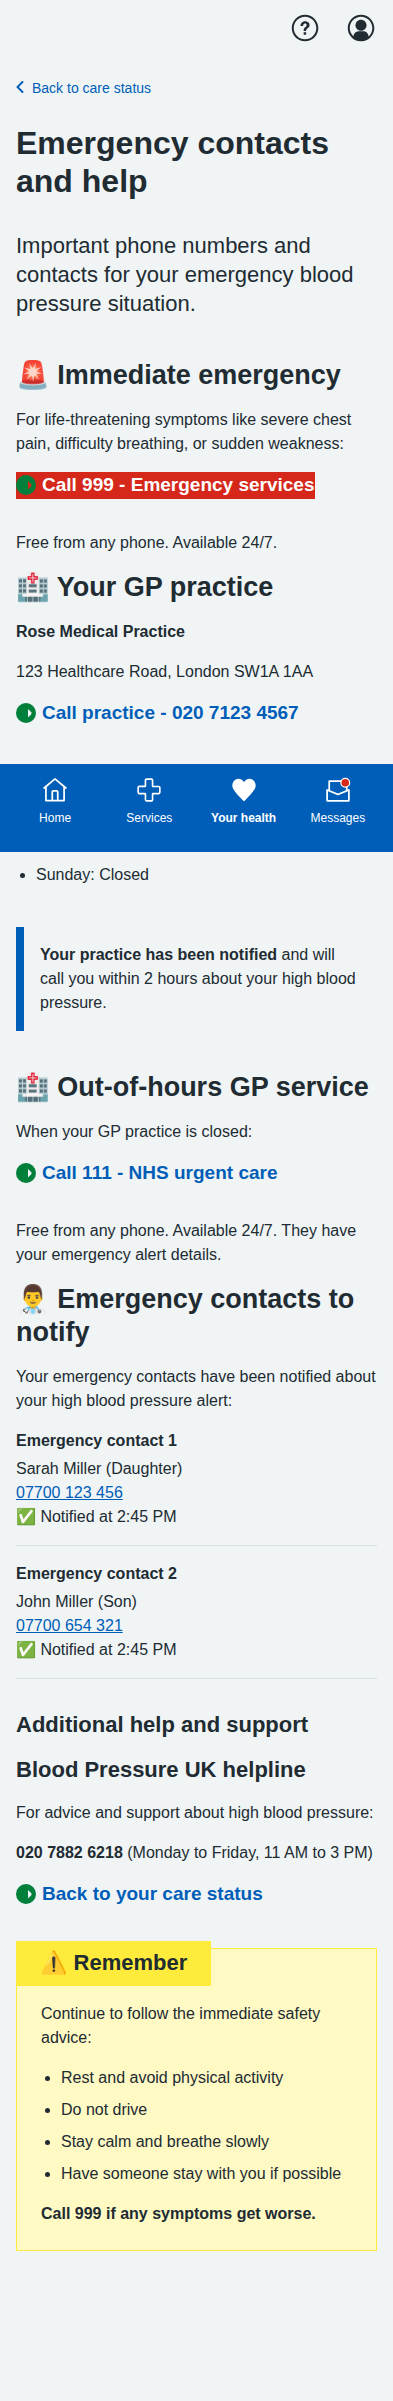
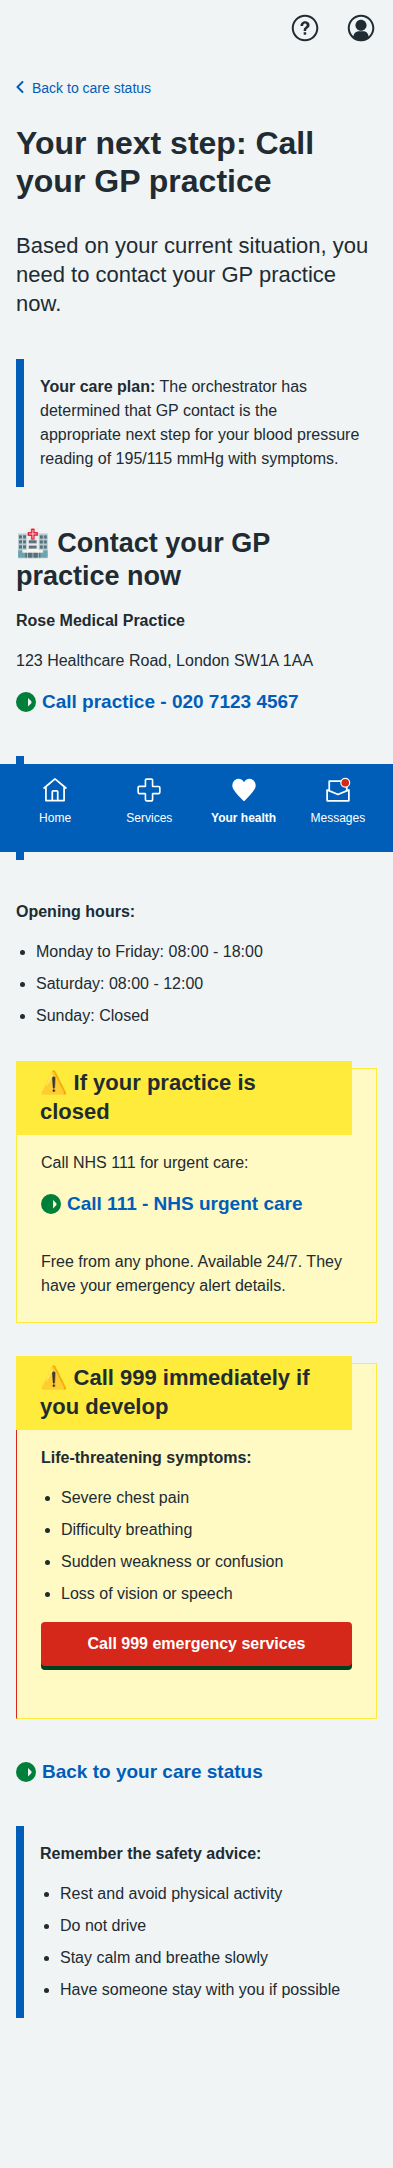
Fix emergency flow UI to align with multiagent orchestrator system and NHS standards

diff --git a/prototype/v1/app/views/pages/mybp/red-flag-emergency/emergency-contacts.html b/prototype/v1/app/views/pages/mybp/red-flag-emergency/emergency-contacts.html
@@ -15,38 +15,22 @@
     <div class="nhsuk-grid-column-two-thirds">
 
       <h1 class="nhsuk-heading-xl">
-        Emergency contacts and help
+        Your next step: Call your GP practice
       </h1>
 
       <p class="nhsuk-lede-text">
-        Important phone numbers and contacts for your emergency blood pressure situation.
+        Based on your current situation, you need to contact your GP practice now.
       </p>
 
-      <div class="nhsuk-summary-card">
-        <div class="nhsuk-summary-card__header">
-          <h2 class="nhsuk-summary-card__title">
-            🚨 Immediate emergency
-          </h2>
-        </div>
-        <div class="nhsuk-summary-card__body">
-          <p>For life-threatening symptoms like severe chest pain, difficulty breathing, or sudden weakness:</p>
-          <div class="nhsuk-action-link">
-            <a class="nhsuk-action-link__link" href="tel:999" style="background-color: #d5281b; color: white;">
-              <svg class="nhsuk-icon nhsuk-icon__arrow-right-circle" xmlns="http://www.w3.org/2000/svg" viewBox="0 0 24 24" aria-hidden="true" width="36" height="36">
-                <path d="m0 0h24v24h-24z" fill="none"/>
-                <path d="m12 2a10 10 0 1 0 10 10 10.011 10.011 0 0 0 -10-10zm5.293 11.293-3.293 3.293v-8.586l3.293 3.293a1 1 0 0 1 0 1.414z"/>
-              </svg>
-              <span class="nhsuk-action-link__text">Call 999 - Emergency services</span>
-            </a>
-          </div>
-          <p class="nhsuk-u-secondary-text-colour">Free from any phone. Available 24/7.</p>
-        </div>
+      <div class="nhsuk-inset-text" style="border-left-color: #005eb8;">
+        <span class="nhsuk-u-visually-hidden">Information: </span>
+        <p><strong>Your care plan:</strong> The orchestrator has determined that GP contact is the appropriate next step for your blood pressure reading of 195/115 mmHg with symptoms.</p>
       </div>
 
       <div class="nhsuk-summary-card">
         <div class="nhsuk-summary-card__header">
           <h2 class="nhsuk-summary-card__title">
-            🏥 Your GP practice
+            🏥 Contact your GP practice now
           </h2>
         </div>
         <div class="nhsuk-summary-card__body">
@@ -63,90 +47,55 @@
             </a>
           </div>
           
-          <p><strong>Opening hours:</strong></p>
-          <ul class="nhsuk-list nhsuk-list--bullet">
-            <li>Monday to Friday: 8:00 AM - 6:00 PM</li>
-            <li>Saturday: 8:00 AM - 12:00 PM</li>
-            <li>Sunday: Closed</li>
-          </ul>
-          
           <div class="nhsuk-inset-text">
             <span class="nhsuk-u-visually-hidden">Information: </span>
-            <p><strong>Your practice has been notified</strong> and will call you within 2 hours about your high blood pressure.</p>
+            <p><strong>Your practice has been notified</strong> and will call you within 2 hours. However, calling them directly will ensure faster response.</p>
           </div>
+
+          <p><strong>Opening hours:</strong></p>
+          <ul class="nhsuk-list nhsuk-list--bullet">
+            <li>Monday to Friday: 08:00 - 18:00</li>
+            <li>Saturday: 08:00 - 12:00</li>
+            <li>Sunday: Closed</li>
+          </ul>
         </div>
       </div>
 
-      <div class="nhsuk-summary-card">
-        <div class="nhsuk-summary-card__header">
-          <h2 class="nhsuk-summary-card__title">
-            🏥 Out-of-hours GP service
-          </h2>
+      <div class="nhsuk-warning-callout">
+        <h3 class="nhsuk-warning-callout__label">
+          <span role="img" aria-label="Warning">⚠</span>
+          If your practice is closed
+        </h3>
+        <p>Call NHS 111 for urgent care:</p>
+        <div class="nhsuk-action-link">
+          <a class="nhsuk-action-link__link" href="tel:111">
+            <svg class="nhsuk-icon nhsuk-icon__arrow-right-circle" xmlns="http://www.w3.org/2000/svg" viewBox="0 0 24 24" aria-hidden="true" width="36" height="36">
+              <path d="m0 0h24v24h-24z" fill="none"/>
+              <path d="m12 2a10 10 0 1 0 10 10 10.011 10.011 0 0 0 -10-10zm5.293 11.293-3.293 3.293v-8.586l3.293 3.293a1 1 0 0 1 0 1.414z"/>
+            </svg>
+            <span class="nhsuk-action-link__text">Call 111 - NHS urgent care</span>
+          </a>
         </div>
-        <div class="nhsuk-summary-card__body">
-          <p>When your GP practice is closed:</p>
-          
-          <div class="nhsuk-action-link">
-            <a class="nhsuk-action-link__link" href="tel:111">
-              <svg class="nhsuk-icon nhsuk-icon__arrow-right-circle" xmlns="http://www.w3.org/2000/svg" viewBox="0 0 24 24" aria-hidden="true" width="36" height="36">
-                <path d="m0 0h24v24h-24z" fill="none"/>
-                <path d="m12 2a10 10 0 1 0 10 10 10.011 10.011 0 0 0 -10-10zm5.293 11.293-3.293 3.293v-8.586l3.293 3.293a1 1 0 0 1 0 1.414z"/>
-              </svg>
-              <span class="nhsuk-action-link__text">Call 111 - NHS urgent care</span>
-            </a>
-          </div>
-          
-          <p class="nhsuk-u-secondary-text-colour">Free from any phone. Available 24/7. They have your emergency alert details.</p>
-        </div>
+        <p class="nhsuk-u-secondary-text-colour">Free from any phone. Available 24/7. They have your emergency alert details.</p>
       </div>
 
-      <div class="nhsuk-summary-card">
-        <div class="nhsuk-summary-card__header">
-          <h2 class="nhsuk-summary-card__title">
-            👨⚕ Emergency contacts to notify
-          </h2>
-        </div>
-        <div class="nhsuk-summary-card__body">
-          <p>Your emergency contacts have been notified about your high blood pressure alert:</p>
-          
-          <dl class="nhsuk-summary-list">
-            <div class="nhsuk-summary-list__row">
-              <dt class="nhsuk-summary-list__key">
-                Emergency contact 1
-              </dt>
-              <dd class="nhsuk-summary-list__value">
-                Sarah Miller (Daughter)<br>
-                <a href="tel:07700123456">07700 123 456</a><br>
-                <span class="nhsuk-u-secondary-text-colour">✅ Notified at 2:45 PM</span>
-              </dd>
-            </div>
-
-            <div class="nhsuk-summary-list__row">
-              <dt class="nhsuk-summary-list__key">
-                Emergency contact 2
-              </dt>
-              <dd class="nhsuk-summary-list__value">
-                John Miller (Son)<br>
-                <a href="tel:07700654321">07700 654 321</a><br>
-                <span class="nhsuk-u-secondary-text-colour">✅ Notified at 2:45 PM</span>
-              </dd>
-            </div>
-          </dl>
-        </div>
-      </div>
-
-      <h2 class="nhsuk-heading-m">Additional help and support</h2>
-
-      <div class="nhsuk-summary-card">
-        <div class="nhsuk-summary-card__header">
-          <h3 class="nhsuk-summary-card__title">
-            Blood Pressure UK helpline
-          </h3>
-        </div>
-        <div class="nhsuk-summary-card__body">
-          <p>For advice and support about high blood pressure:</p>
-          <p><strong>020 7882 6218</strong> (Monday to Friday, 11 AM to 3 PM)</p>
-        </div>
+      <div class="nhsuk-warning-callout" style="border-left-color: #d5281b;">
+        <h3 class="nhsuk-warning-callout__label">
+          <span role="img" aria-label="Warning">⚠</span>
+          Call 999 immediately if you develop
+        </h3>
+        <p><strong>Life-threatening symptoms:</strong></p>
+        <ul class="nhsuk-list nhsuk-list--bullet">
+          <li>Severe chest pain</li>
+          <li>Difficulty breathing</li>
+          <li>Sudden weakness or confusion</li>
+          <li>Loss of vision or speech</li>
+        </ul>
+        <p>
+          <a href="tel:999" class="nhsuk-button" style="background-color: #d5281b; border-color: #d5281b;">
+            Call 999 emergency services
+          </a>
+        </p>
       </div>
 
       <div class="nhsuk-action-link">
@@ -159,19 +108,15 @@
         </a>
       </div>
 
-      <div class="nhsuk-warning-callout">
-        <h3 class="nhsuk-warning-callout__label">
-          <span role="img" aria-label="Warning">⚠</span>
-          Remember
-        </h3>
-        <p>Continue to follow the immediate safety advice:</p>
+      <div class="nhsuk-inset-text">
+        <span class="nhsuk-u-visually-hidden">Information: </span>
+        <p><strong>Remember the safety advice:</strong></p>
         <ul class="nhsuk-list nhsuk-list--bullet">
           <li>Rest and avoid physical activity</li>
           <li>Do not drive</li>
           <li>Stay calm and breathe slowly</li>
           <li>Have someone stay with you if possible</li>
         </ul>
-        <p><strong>Call 999 if any symptoms get worse.</strong></p>
       </div>
 
     </div>

diff --git a/prototype/v1/app/views/pages/mybp/red-flag-emergency/escalation-status.html b/prototype/v1/app/views/pages/mybp/red-flag-emergency/escalation-status.html
@@ -20,51 +20,56 @@
 
       <div class="nhsuk-inset-text" style="border-left-color: #005eb8;">
         <span class="nhsuk-u-visually-hidden">Information: </span>
-        <p><strong>Emergency alert activated:</strong> 2:45 PM on 15 October 2024</p>
+        <p><strong>Emergency alert activated:</strong> 14:45 on 15 October 2024</p>
         <p><strong>Protocol:</strong> GP confirmation required within 15 minutes, or automatic escalation to out-of-hours service</p>
       </div>
 
       <div class="nhsuk-summary-card">
         <div class="nhsuk-summary-card__header">
           <h2 class="nhsuk-summary-card__title">
-            ✅ Care arranged for you
+            ✅ Your care arrangements
           </h2>
         </div>
         <div class="nhsuk-summary-card__body">
+          <p class="nhsuk-u-margin-bottom-4"><strong>Care pathway determined by orchestrator following NICE guidelines:</strong></p>
+          
           <dl class="nhsuk-summary-list">
             <div class="nhsuk-summary-list__row">
               <dt class="nhsuk-summary-list__key">
-                GP practice notified
+                GP practice notification
               </dt>
               <dd class="nhsuk-summary-list__value">
-                <strong class="nhsuk-tag nhsuk-tag--green">Complete</strong>
-                <br><span class="nhsuk-u-secondary-text-colour">Rose Medical Practice contacted at 2:45 PM</span>
+                <strong class="nhsuk-tag nhsuk-tag--blue">Complete</strong>
+                <br><span class="nhsuk-u-secondary-text-colour">Rose Medical Practice contacted at 14:45</span>
+                <br><span class="nhsuk-u-secondary-text-colour"><em>Status: Completed action</em></span>
               </dd>
             </div>
 
             <div class="nhsuk-summary-list__row">
               <dt class="nhsuk-summary-list__key">
-                Urgent appointment
+                Clinical assessment required
               </dt>
               <dd class="nhsuk-summary-list__value">
-                <strong class="nhsuk-tag nhsuk-tag--yellow">In progress</strong>
-                <br><span class="nhsuk-u-secondary-text-colour">GP will call you within 2 hours</span>
+                <strong class="nhsuk-tag nhsuk-tag--orange">Urgent</strong>
+                <br><span class="nhsuk-u-secondary-text-colour">GP assessment within 2 hours</span>
+                <br><span class="nhsuk-u-secondary-text-colour"><em>Priority: High urgency due to BP ≥180/110 mmHg with symptoms</em></span>
               </dd>
             </div>
 
             <div class="nhsuk-summary-list__row">
               <dt class="nhsuk-summary-list__key">
-                Priority level
+                Hospital pathway
               </dt>
               <dd class="nhsuk-summary-list__value">
-                <strong class="nhsuk-tag nhsuk-tag--red">Urgent</strong>
-                <br><span class="nhsuk-u-secondary-text-colour">Blood pressure ≥180/110 mmHg</span>
+                <strong class="nhsuk-tag nhsuk-tag--grey">Standby</strong>
+                <br><span class="nhsuk-u-secondary-text-colour">A&E referral if GP determines emergency</span>
+                <br><span class="nhsuk-u-secondary-text-colour"><em>Status: Available if clinical assessment indicates immediate hospital care needed</em></span>
               </dd>
             </div>
 
             <div class="nhsuk-summary-list__row">
               <dt class="nhsuk-summary-list__key">
-                Your details shared
+                Patient details shared
               </dt>
               <dd class="nhsuk-summary-list__value">
                 BP reading: 195/115 mmHg<br>
@@ -74,10 +79,15 @@
               </dd>
             </div>
           </dl>
+
+          <div class="nhsuk-inset-text">
+            <span class="nhsuk-u-visually-hidden">Information: </span>
+            <p><strong>Colour coding:</strong> Blue = completed actions, Orange = urgent actions required, Grey = standby/conditional actions</p>
+          </div>
         </div>
       </div>
 
-      <h2 class="nhsuk-heading-m">What to expect</h2>
+      <h2 class="nhsuk-heading-m">Care pathway timeline</h2>
       
       <div class="nhsuk-timeline">
         <ol class="nhsuk-timeline__list">
@@ -85,7 +95,7 @@
             <div class="nhsuk-timeline__header">
               <h3 class="nhsuk-timeline__title">Now - Follow safety advice</h3>
               <p class="nhsuk-timeline__datetime">
-                <time datetime="2024-10-15">2:45 PM</time>
+                <time datetime="2024-10-15">14:45</time>
               </p>
             </div>
             <div class="nhsuk-timeline__body">
@@ -96,27 +106,27 @@
 
           <li class="nhsuk-timeline__item">
             <div class="nhsuk-timeline__header">
-              <h3 class="nhsuk-timeline__title">Within 2 hours - GP assessment</h3>
+              <h3 class="nhsuk-timeline__title">Within 2 hours - GP clinical assessment</h3>
               <p class="nhsuk-timeline__datetime">
-                <time datetime="2024-10-15">Before 4:45 PM</time>
+                <time datetime="2024-10-15">Before 16:45</time>
               </p>
             </div>
             <div class="nhsuk-timeline__body">
-              <p>A GP will call you to assess your condition and provide further instructions.</p>
-              <p class="nhsuk-u-secondary-text-colour">⏳ Waiting</p>
+              <p>A GP will call you to assess your condition following NICE CG127 guidelines and determine if hospital referral is needed.</p>
+              <p class="nhsuk-u-secondary-text-colour">⏳ Waiting for GP contact</p>
             </div>
           </li>
 
           <li class="nhsuk-timeline__item">
             <div class="nhsuk-timeline__header">
-              <h3 class="nhsuk-timeline__title">If needed - Hospital referral</h3>
+              <h3 class="nhsuk-timeline__title">If required - A&E emergency referral</h3>
               <p class="nhsuk-timeline__datetime">
-                <time datetime="2024-10-15">If required by GP</time>
+                <time datetime="2024-10-15">If GP determines emergency</time>
               </p>
             </div>
             <div class="nhsuk-timeline__body">
-              <p>If your GP determines you need immediate hospital care, they will arrange this for you.</p>
-              <p class="nhsuk-u-secondary-text-colour">🏥 Standby</p>
+              <p>If your GP assessment indicates hypertensive emergency (papilloedema, acute target organ damage, or life-threatening symptoms), immediate A&E referral will be arranged.</p>
+              <p class="nhsuk-u-secondary-text-colour">🚨 Emergency pathway available</p>
             </div>
           </li>
 
@@ -124,7 +134,7 @@
             <div class="nhsuk-timeline__header">
               <h3 class="nhsuk-timeline__title">24-hour follow-up check</h3>
               <p class="nhsuk-timeline__datetime">
-                <time datetime="2024-10-16">Tomorrow 2:45 PM</time>
+                <time datetime="2024-10-16">Tomorrow 14:45</time>
               </p>
             </div>
             <div class="nhsuk-timeline__body">
